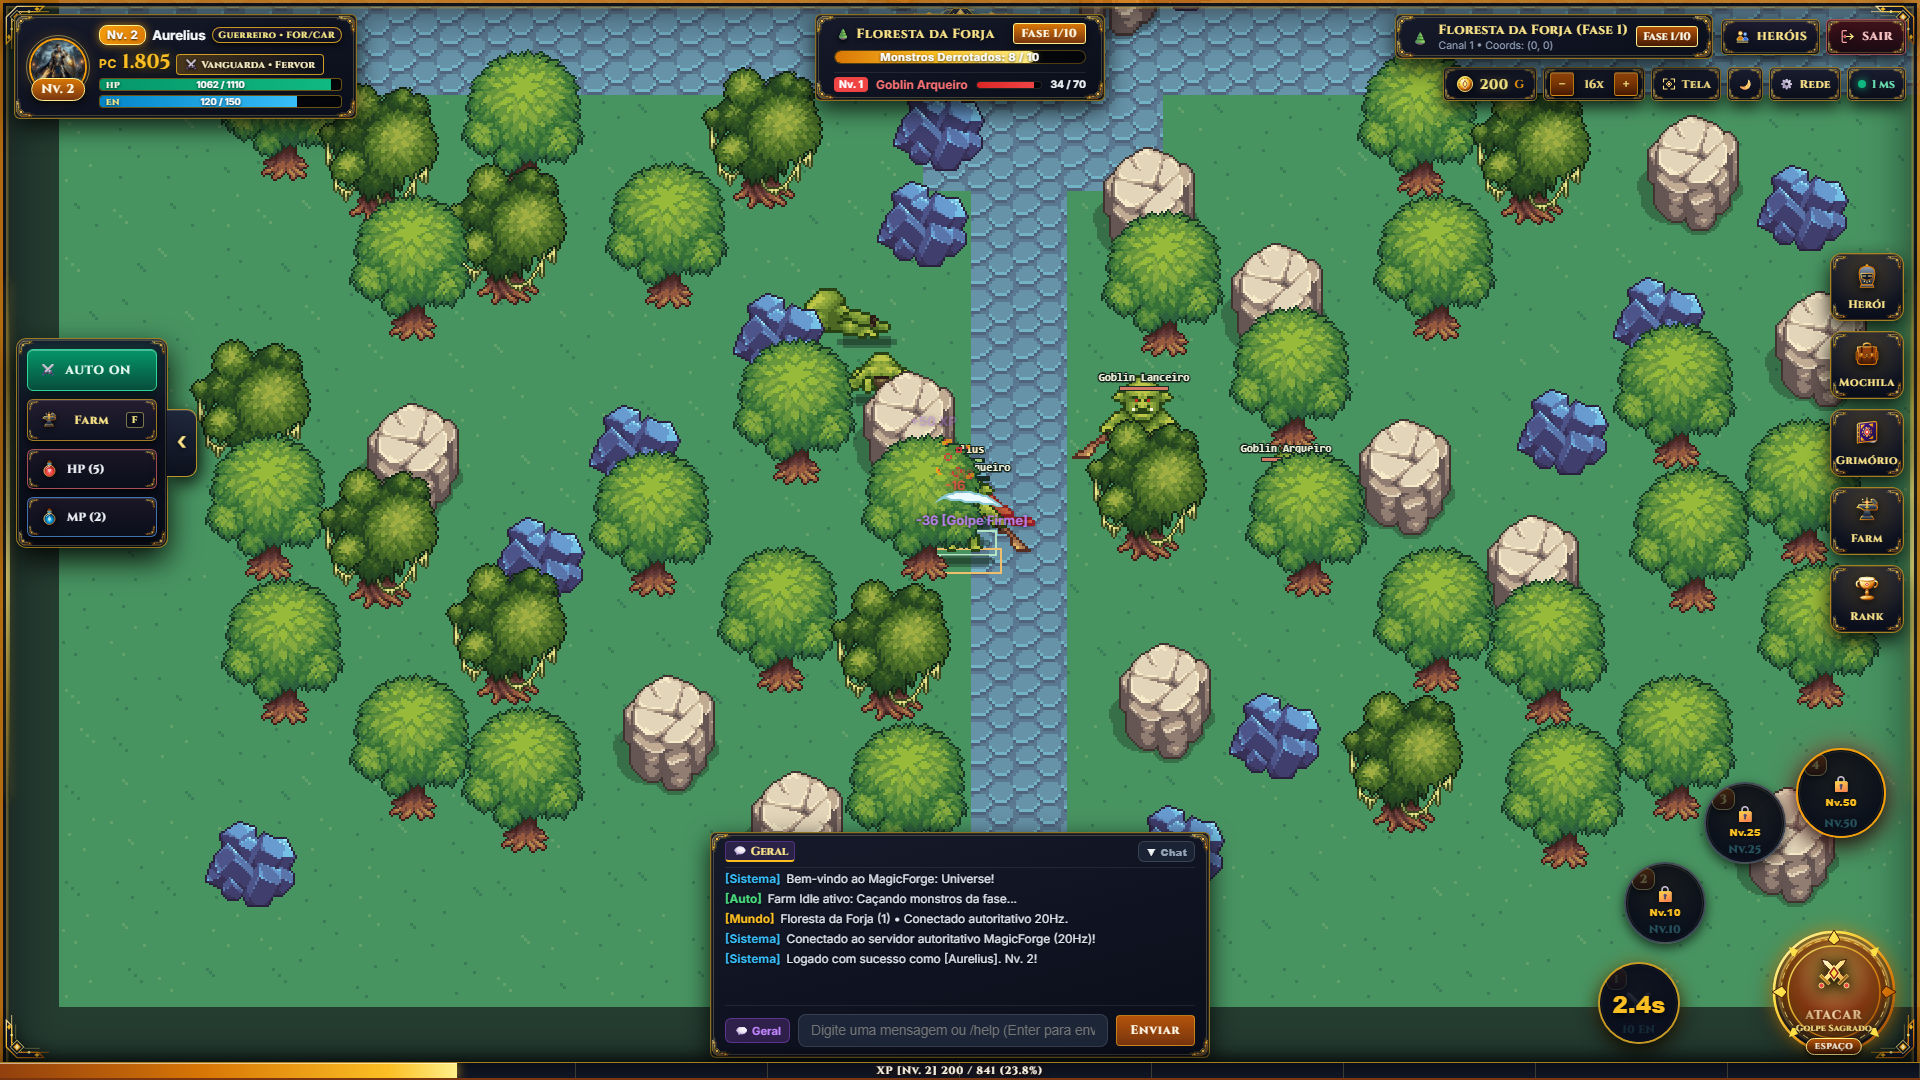
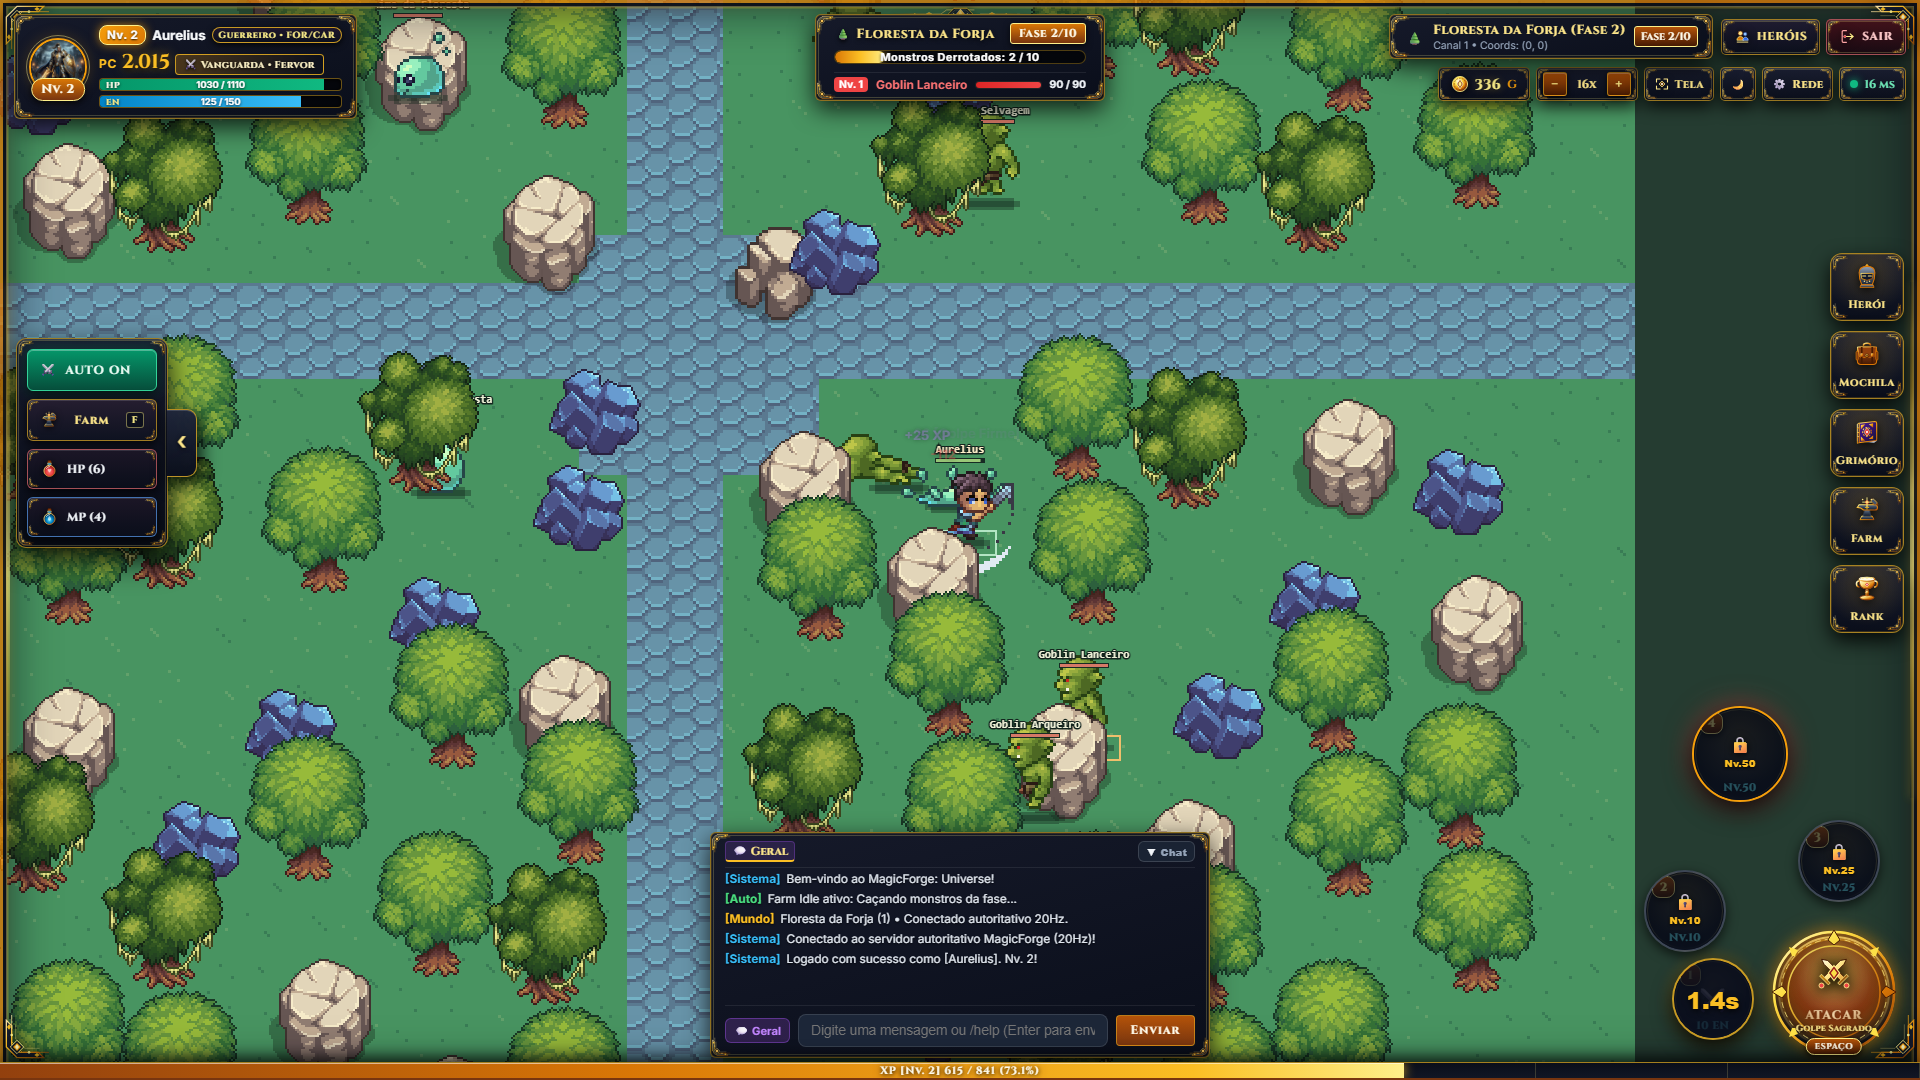
feat(ui): reposition skills to prevent chat overlap and position skill 4 as enlarged apex crown

diff --git a/client/src/ui/progression.css b/client/src/ui/progression.css
@@ -1416,7 +1416,7 @@
   white-space: nowrap;
 }
 
-/* Botões de Habilidade em Meia-Lua (Slots 1 a 4) - Proporção Ampliada */
+/* Botões de Habilidade em Arco Ergonômico (Slots 1 a 3 + Slot 4 Supremo no Topo/Meio) */
 .skill-arc-btn {
   width: 82px !important;
   height: 82px !important;
@@ -1435,25 +1435,27 @@
 }
 
 #skill-btn-1 {
-  bottom: 12px !important;
-  right: 218px !important;
+  bottom: 16px !important;
+  right: 144px !important;
 }
 
 #skill-btn-2 {
-  bottom: 112px !important;
-  right: 192px !important;
+  bottom: 104px !important;
+  right: 172px !important;
 }
 
 #skill-btn-3 {
-  bottom: 192px !important;
-  right: 112px !important;
+  bottom: 154px !important;
+  right: 18px !important;
 }
 
+/* Slot 4 / Habilidade Suprema: Maior e posicionada no topo entre Skill 2 e 3 no meio */
 #skill-btn-4 {
-  bottom: 218px !important;
-  right: 12px !important;
-  width: 90px !important;
-  height: 90px !important;
+  bottom: 254px !important;
+  right: 110px !important;
+  width: 96px !important;
+  height: 96px !important;
+  border-width: 2.6px !important;
 }
 
 .skill-arc-btn:hover {
@@ -1939,30 +1941,30 @@
   }
 
   .skill-arc-btn {
-    width: 70px !important;
-    height: 70px !important;
+    width: 68px !important;
+    height: 68px !important;
   }
 
   #skill-btn-1 {
-    bottom: 10px !important;
-    right: 204px !important;
+    bottom: 14px !important;
+    right: 126px !important;
   }
 
   #skill-btn-2 {
-    bottom: 106px !important;
-    right: 180px !important;
+    bottom: 92px !important;
+    right: 148px !important;
   }
 
   #skill-btn-3 {
-    bottom: 180px !important;
-    right: 106px !important;
+    bottom: 136px !important;
+    right: 16px !important;
   }
 
   #skill-btn-4 {
-    bottom: 204px !important;
-    right: 10px !important;
-    width: 76px !important;
-    height: 76px !important;
+    bottom: 222px !important;
+    right: 96px !important;
+    width: 84px !important;
+    height: 84px !important;
   }
 
   #bottom-center-zone {
@@ -2120,19 +2122,19 @@
     display: none;
   }
 
-  /* Em Mobile Portrait, o arco de combate fica ergonomicamente posicionado acima do chat sem overlap */
+  /* Em Mobile Portrait, o arco de combate fica ergonomicamente posicionado no canto inferior direito */
   #mobile-combat-arc-container {
-    width: 244px !important;
-    height: 244px !important;
-    bottom: 124px !important;
+    width: 180px !important;
+    height: 240px !important;
+    bottom: 16px !important;
     right: 8px !important;
   }
 
   #btn-primary-attack {
-    width: 82px !important;
-    height: 82px !important;
-    bottom: 6px !important;
-    right: 6px !important;
+    width: 78px !important;
+    height: 78px !important;
+    bottom: 4px !important;
+    right: 4px !important;
   }
 
   .attack-crest-svg {
@@ -2150,30 +2152,40 @@
   }
 
   .skill-arc-btn {
-    width: 58px !important;
-    height: 58px !important;
+    width: 52px !important;
+    height: 52px !important;
   }
 
+  /* Skill 1: ao lado do ataque à esquerda, sem invadir o chat */
   #skill-btn-1 {
-    bottom: 8px !important;
-    right: 168px !important;
+    bottom: 10px !important;
+    right: 90px !important;
   }
 
+  /* Skill 2: acima de skill 1 à esquerda */
   #skill-btn-2 {
-    bottom: 92px !important;
-    right: 146px !important;
+    bottom: 70px !important;
+    right: 102px !important;
   }
 
+  /* Skill 3: acima do botão de ataque à direita */
   #skill-btn-3 {
-    bottom: 152px !important;
-    right: 86px !important;
+    bottom: 92px !important;
+    right: 10px !important;
   }
 
+  /* Skill 4: Suprema - Maior, no topo exatamente no meio entre Skill 2 e Skill 3 */
   #skill-btn-4 {
-    bottom: 172px !important;
-    right: 8px !important;
-    width: 64px !important;
-    height: 64px !important;
+    bottom: 150px !important;
+    right: 54px !important;
+    width: 66px !important;
+    height: 66px !important;
+    border-width: 2.5px !important;
+    border-color: #f59e0b !important;
+    box-shadow:
+      inset 0 0 0 2px rgba(10, 14, 26, 0.92),
+      0 0 22px rgba(245, 158, 11, 0.65),
+      0 8px 24px rgba(0, 0, 0, 0.9) !important;
   }
 
   .skill-key-badge {
@@ -2189,15 +2201,16 @@
     font-size: 1.05rem !important;
   }
 
-  /* Chat centralizado lá embaixo sem colidir com o arco de skills */
+  /* Chat posicionado na lateral inferior esquerda sem qualquer colisão com os botões de ação */
   #bottom-center-zone {
-    bottom: 12px !important;
-    left: 50% !important;
+    bottom: 16px !important;
+    left: 8px !important;
     right: auto !important;
-    transform: translateX(-50%) !important;
-    width: min(340px, calc(100vw - 24px)) !important;
+    transform: none !important;
+    width: min(185px, calc(100vw - 195px)) !important;
     min-width: 0 !important;
-    max-width: calc(100vw - 24px) !important;
+    max-width: calc(100vw - 195px) !important;
+    z-index: 24 !important;
   }
 
   #game-chat-box {
